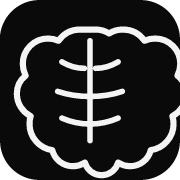
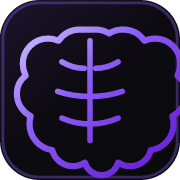
Ícones do cérebro em roxo com fundo preto
Atualiza favicon/PWA e a tela de login para traço roxo sobre base
preta, com acentos violetas nos campos e no botão.

Changed region(s): [[0.0, 0.0, 1.0, 1.0]]

diff --git a/controle-financeiro.html b/controle-financeiro.html
@@ -1,12 +1,12 @@
 <!DOCTYPE html>
-<!-- deploy-v20260804-cerebro-favicon -->
+<!-- deploy-v20260804-cerebro-purple-icons -->
 <html lang="pt-BR">
 <head>
 <meta charset="UTF-8">
 <meta name="viewport" content="width=device-width, initial-scale=1.0, viewport-fit=cover">
 <title>O Cerébro</title>
 <meta name="description" content="Agenda pessoal, hábitos, projetos e controle financeiro.">
-<meta name="theme-color" content="#0a0a0b">
+<meta name="theme-color" content="#0d0b12">
 <meta name="color-scheme" content="dark light">
 <meta name="mobile-web-app-capable" content="yes">
 <meta name="apple-mobile-web-app-capable" content="yes">
@@ -3745,22 +3745,22 @@
     .type-toggle{ max-width:100% !important; }
   }
 
-  /* ===== Tela de bloqueio — O CERÉBRO (tons de preto) ===== */
+  /* ===== Tela de bloqueio — O CERÉBRO (preto + roxo) ===== */
   .lock-screen{
     position:fixed; inset:0; z-index:1000; display:flex; align-items:center; justify-content:center;
     background:
-      radial-gradient(800px 420px at 15% 0%, rgba(255,255,255,0.06) 0%, transparent 55%),
-      radial-gradient(600px 360px at 100% 20%, rgba(255,255,255,0.04) 0%, transparent 50%),
-      radial-gradient(500px 280px at 50% 100%, rgba(255,255,255,0.03) 0%, transparent 55%),
-      linear-gradient(165deg, #0a0a0b 0%, #111113 45%, #0c0c0e 100%);
+      radial-gradient(820px 440px at 12% -8%, rgba(139,92,246,0.22) 0%, transparent 55%),
+      radial-gradient(640px 380px at 100% 12%, rgba(109,40,217,0.16) 0%, transparent 52%),
+      radial-gradient(520px 300px at 50% 100%, rgba(76,29,149,0.14) 0%, transparent 55%),
+      linear-gradient(165deg, #0a0a0b 0%, #100e16 45%, #0c0a10 100%);
     padding:20px;
   }
   .lock-card{
     width:100%; max-width:360px;
-    background:rgba(18,18,20,0.92);
-    border:1px solid rgba(255,255,255,0.10);
+    background:rgba(14,12,20,0.94);
+    border:1px solid rgba(139,92,246,0.22);
     backdrop-filter: blur(18px); -webkit-backdrop-filter: blur(18px);
-    box-shadow: 0 24px 60px rgba(0,0,0,0.55), inset 0 1px 0 rgba(255,255,255,0.06);
+    box-shadow: 0 24px 60px rgba(0,0,0,0.55), 0 0 0 1px rgba(0,0,0,0.4), inset 0 1px 0 rgba(196,181,253,0.08);
     border-radius:28px;
     padding:36px 30px;
     text-align:center;
@@ -3775,10 +3775,10 @@
   }
   .lock-mark{
     width:72px; height:72px; border-radius:22px; margin:0 auto 18px;
-    background:linear-gradient(160deg, #2a2a2e 0%, #141416 55%, #0a0a0b 100%);
-    border:1px solid rgba(255,255,255,0.12);
-    display:flex; align-items:center; justify-content:center; color:#f4f4f5;
-    box-shadow: 0 14px 32px rgba(0,0,0,0.45), inset 0 1px 0 rgba(255,255,255,0.08);
+    background:linear-gradient(160deg, #2a1848 0%, #141018 50%, #0a0a0b 100%);
+    border:1px solid rgba(139,92,246,0.4);
+    display:flex; align-items:center; justify-content:center; color:#C4B5FD;
+    box-shadow: 0 14px 32px rgba(76,29,149,0.35), inset 0 1px 0 rgba(196,181,253,0.12);
   }
   .lock-mark svg{
     width:40px; height:40px; display:block;
@@ -3787,27 +3787,27 @@
     font-family:var(--font); font-weight:800; font-size:20px; margin:0 0 6px;
     letter-spacing:.04em; text-transform:uppercase; color:#f4f4f5;
   }
-  .lock-sub{ font-size:13px; font-weight:500; color:rgba(244,244,245,0.55); margin:0 0 24px; }
+  .lock-sub{ font-size:13px; font-weight:500; color:rgba(196,181,253,0.55); margin:0 0 24px; }
   .lock-input{
-    width:100%; padding:14px 15px; border:1.5px solid rgba(255,255,255,0.12); border-radius:14px;
+    width:100%; padding:14px 15px; border:1.5px solid rgba(139,92,246,0.22); border-radius:14px;
     font-family:var(--font); font-weight:600; font-size:15px; letter-spacing:normal;
-    text-align:left; background:rgba(0,0,0,0.35); color:#f4f4f5;
+    text-align:left; background:rgba(0,0,0,0.4); color:#f4f4f5;
     transition: border-color .18s var(--ease), box-shadow .18s var(--ease), background .18s var(--ease);
   }
-  .lock-input::placeholder{ color:rgba(244,244,245,0.35); }
+  .lock-input::placeholder{ color:rgba(196,181,253,0.35); }
   .lock-input:focus{
-    outline:none; border-color:rgba(255,255,255,0.35); background:rgba(0,0,0,0.5);
-    box-shadow: 0 0 0 3px rgba(255,255,255,0.08);
+    outline:none; border-color:rgba(167,139,250,0.55); background:rgba(0,0,0,0.55);
+    box-shadow: 0 0 0 3px rgba(139,92,246,0.18);
   }
   .lock-screen .btn-add{
-    background:linear-gradient(145deg, #2c2c30 0%, #141416 55%, #0a0a0b 100%) !important;
-    border:1px solid rgba(255,255,255,0.14) !important;
+    background:linear-gradient(145deg, #6D28D9 0%, #4C1D95 55%, #1a0f2e 100%) !important;
+    border:1px solid rgba(167,139,250,0.35) !important;
     color:#f4f4f5 !important;
-    box-shadow: 0 10px 24px rgba(0,0,0,0.4) !important;
+    box-shadow: 0 10px 24px rgba(76,29,149,0.4) !important;
   }
   .lock-screen .btn-add:hover{
-    filter:brightness(1.12) !important;
-    border-color:rgba(255,255,255,0.22) !important;
+    filter:brightness(1.1) !important;
+    border-color:rgba(196,181,253,0.5) !important;
   }
   .lock-error{ display:none; color:#f87171; font-size:12px; font-weight:700; margin:14px 0 0; }
 

diff --git a/docs/index.html b/docs/index.html
@@ -1,12 +1,12 @@
 <!DOCTYPE html>
-<!-- deploy-v20260804-cerebro-favicon -->
+<!-- deploy-v20260804-cerebro-purple-icons -->
 <html lang="pt-BR">
 <head>
 <meta charset="UTF-8">
 <meta name="viewport" content="width=device-width, initial-scale=1.0, viewport-fit=cover">
 <title>O Cerébro</title>
 <meta name="description" content="Agenda pessoal, hábitos, projetos e controle financeiro.">
-<meta name="theme-color" content="#0a0a0b">
+<meta name="theme-color" content="#0d0b12">
 <meta name="color-scheme" content="dark light">
 <meta name="mobile-web-app-capable" content="yes">
 <meta name="apple-mobile-web-app-capable" content="yes">
@@ -3745,22 +3745,22 @@
     .type-toggle{ max-width:100% !important; }
   }
 
-  /* ===== Tela de bloqueio — O CERÉBRO (tons de preto) ===== */
+  /* ===== Tela de bloqueio — O CERÉBRO (preto + roxo) ===== */
   .lock-screen{
     position:fixed; inset:0; z-index:1000; display:flex; align-items:center; justify-content:center;
     background:
-      radial-gradient(800px 420px at 15% 0%, rgba(255,255,255,0.06) 0%, transparent 55%),
-      radial-gradient(600px 360px at 100% 20%, rgba(255,255,255,0.04) 0%, transparent 50%),
-      radial-gradient(500px 280px at 50% 100%, rgba(255,255,255,0.03) 0%, transparent 55%),
-      linear-gradient(165deg, #0a0a0b 0%, #111113 45%, #0c0c0e 100%);
+      radial-gradient(820px 440px at 12% -8%, rgba(139,92,246,0.22) 0%, transparent 55%),
+      radial-gradient(640px 380px at 100% 12%, rgba(109,40,217,0.16) 0%, transparent 52%),
+      radial-gradient(520px 300px at 50% 100%, rgba(76,29,149,0.14) 0%, transparent 55%),
+      linear-gradient(165deg, #0a0a0b 0%, #100e16 45%, #0c0a10 100%);
     padding:20px;
   }
   .lock-card{
     width:100%; max-width:360px;
-    background:rgba(18,18,20,0.92);
-    border:1px solid rgba(255,255,255,0.10);
+    background:rgba(14,12,20,0.94);
+    border:1px solid rgba(139,92,246,0.22);
     backdrop-filter: blur(18px); -webkit-backdrop-filter: blur(18px);
-    box-shadow: 0 24px 60px rgba(0,0,0,0.55), inset 0 1px 0 rgba(255,255,255,0.06);
+    box-shadow: 0 24px 60px rgba(0,0,0,0.55), 0 0 0 1px rgba(0,0,0,0.4), inset 0 1px 0 rgba(196,181,253,0.08);
     border-radius:28px;
     padding:36px 30px;
     text-align:center;
@@ -3775,10 +3775,10 @@
   }
   .lock-mark{
     width:72px; height:72px; border-radius:22px; margin:0 auto 18px;
-    background:linear-gradient(160deg, #2a2a2e 0%, #141416 55%, #0a0a0b 100%);
-    border:1px solid rgba(255,255,255,0.12);
-    display:flex; align-items:center; justify-content:center; color:#f4f4f5;
-    box-shadow: 0 14px 32px rgba(0,0,0,0.45), inset 0 1px 0 rgba(255,255,255,0.08);
+    background:linear-gradient(160deg, #2a1848 0%, #141018 50%, #0a0a0b 100%);
+    border:1px solid rgba(139,92,246,0.4);
+    display:flex; align-items:center; justify-content:center; color:#C4B5FD;
+    box-shadow: 0 14px 32px rgba(76,29,149,0.35), inset 0 1px 0 rgba(196,181,253,0.12);
   }
   .lock-mark svg{
     width:40px; height:40px; display:block;
@@ -3787,27 +3787,27 @@
     font-family:var(--font); font-weight:800; font-size:20px; margin:0 0 6px;
     letter-spacing:.04em; text-transform:uppercase; color:#f4f4f5;
   }
-  .lock-sub{ font-size:13px; font-weight:500; color:rgba(244,244,245,0.55); margin:0 0 24px; }
+  .lock-sub{ font-size:13px; font-weight:500; color:rgba(196,181,253,0.55); margin:0 0 24px; }
   .lock-input{
-    width:100%; padding:14px 15px; border:1.5px solid rgba(255,255,255,0.12); border-radius:14px;
+    width:100%; padding:14px 15px; border:1.5px solid rgba(139,92,246,0.22); border-radius:14px;
     font-family:var(--font); font-weight:600; font-size:15px; letter-spacing:normal;
-    text-align:left; background:rgba(0,0,0,0.35); color:#f4f4f5;
+    text-align:left; background:rgba(0,0,0,0.4); color:#f4f4f5;
     transition: border-color .18s var(--ease), box-shadow .18s var(--ease), background .18s var(--ease);
   }
-  .lock-input::placeholder{ color:rgba(244,244,245,0.35); }
+  .lock-input::placeholder{ color:rgba(196,181,253,0.35); }
   .lock-input:focus{
-    outline:none; border-color:rgba(255,255,255,0.35); background:rgba(0,0,0,0.5);
-    box-shadow: 0 0 0 3px rgba(255,255,255,0.08);
+    outline:none; border-color:rgba(167,139,250,0.55); background:rgba(0,0,0,0.55);
+    box-shadow: 0 0 0 3px rgba(139,92,246,0.18);
   }
   .lock-screen .btn-add{
-    background:linear-gradient(145deg, #2c2c30 0%, #141416 55%, #0a0a0b 100%) !important;
-    border:1px solid rgba(255,255,255,0.14) !important;
+    background:linear-gradient(145deg, #6D28D9 0%, #4C1D95 55%, #1a0f2e 100%) !important;
+    border:1px solid rgba(167,139,250,0.35) !important;
     color:#f4f4f5 !important;
-    box-shadow: 0 10px 24px rgba(0,0,0,0.4) !important;
+    box-shadow: 0 10px 24px rgba(76,29,149,0.4) !important;
   }
   .lock-screen .btn-add:hover{
-    filter:brightness(1.12) !important;
-    border-color:rgba(255,255,255,0.22) !important;
+    filter:brightness(1.1) !important;
+    border-color:rgba(196,181,253,0.5) !important;
   }
   .lock-error{ display:none; color:#f87171; font-size:12px; font-weight:700; margin:14px 0 0; }
 

diff --git a/index.html b/index.html
@@ -1,12 +1,12 @@
 <!DOCTYPE html>
-<!-- deploy-v20260804-cerebro-favicon -->
+<!-- deploy-v20260804-cerebro-purple-icons -->
 <html lang="pt-BR">
 <head>
 <meta charset="UTF-8">
 <meta name="viewport" content="width=device-width, initial-scale=1.0, viewport-fit=cover">
 <title>O Cerébro</title>
 <meta name="description" content="Agenda pessoal, hábitos, projetos e controle financeiro.">
-<meta name="theme-color" content="#0a0a0b">
+<meta name="theme-color" content="#0d0b12">
 <meta name="color-scheme" content="dark light">
 <meta name="mobile-web-app-capable" content="yes">
 <meta name="apple-mobile-web-app-capable" content="yes">
@@ -3745,22 +3745,22 @@
     .type-toggle{ max-width:100% !important; }
   }
 
-  /* ===== Tela de bloqueio — O CERÉBRO (tons de preto) ===== */
+  /* ===== Tela de bloqueio — O CERÉBRO (preto + roxo) ===== */
   .lock-screen{
     position:fixed; inset:0; z-index:1000; display:flex; align-items:center; justify-content:center;
     background:
-      radial-gradient(800px 420px at 15% 0%, rgba(255,255,255,0.06) 0%, transparent 55%),
-      radial-gradient(600px 360px at 100% 20%, rgba(255,255,255,0.04) 0%, transparent 50%),
-      radial-gradient(500px 280px at 50% 100%, rgba(255,255,255,0.03) 0%, transparent 55%),
-      linear-gradient(165deg, #0a0a0b 0%, #111113 45%, #0c0c0e 100%);
+      radial-gradient(820px 440px at 12% -8%, rgba(139,92,246,0.22) 0%, transparent 55%),
+      radial-gradient(640px 380px at 100% 12%, rgba(109,40,217,0.16) 0%, transparent 52%),
+      radial-gradient(520px 300px at 50% 100%, rgba(76,29,149,0.14) 0%, transparent 55%),
+      linear-gradient(165deg, #0a0a0b 0%, #100e16 45%, #0c0a10 100%);
     padding:20px;
   }
   .lock-card{
     width:100%; max-width:360px;
-    background:rgba(18,18,20,0.92);
-    border:1px solid rgba(255,255,255,0.10);
+    background:rgba(14,12,20,0.94);
+    border:1px solid rgba(139,92,246,0.22);
     backdrop-filter: blur(18px); -webkit-backdrop-filter: blur(18px);
-    box-shadow: 0 24px 60px rgba(0,0,0,0.55), inset 0 1px 0 rgba(255,255,255,0.06);
+    box-shadow: 0 24px 60px rgba(0,0,0,0.55), 0 0 0 1px rgba(0,0,0,0.4), inset 0 1px 0 rgba(196,181,253,0.08);
     border-radius:28px;
     padding:36px 30px;
     text-align:center;
@@ -3775,10 +3775,10 @@
   }
   .lock-mark{
     width:72px; height:72px; border-radius:22px; margin:0 auto 18px;
-    background:linear-gradient(160deg, #2a2a2e 0%, #141416 55%, #0a0a0b 100%);
-    border:1px solid rgba(255,255,255,0.12);
-    display:flex; align-items:center; justify-content:center; color:#f4f4f5;
-    box-shadow: 0 14px 32px rgba(0,0,0,0.45), inset 0 1px 0 rgba(255,255,255,0.08);
+    background:linear-gradient(160deg, #2a1848 0%, #141018 50%, #0a0a0b 100%);
+    border:1px solid rgba(139,92,246,0.4);
+    display:flex; align-items:center; justify-content:center; color:#C4B5FD;
+    box-shadow: 0 14px 32px rgba(76,29,149,0.35), inset 0 1px 0 rgba(196,181,253,0.12);
   }
   .lock-mark svg{
     width:40px; height:40px; display:block;
@@ -3787,27 +3787,27 @@
     font-family:var(--font); font-weight:800; font-size:20px; margin:0 0 6px;
     letter-spacing:.04em; text-transform:uppercase; color:#f4f4f5;
   }
-  .lock-sub{ font-size:13px; font-weight:500; color:rgba(244,244,245,0.55); margin:0 0 24px; }
+  .lock-sub{ font-size:13px; font-weight:500; color:rgba(196,181,253,0.55); margin:0 0 24px; }
   .lock-input{
-    width:100%; padding:14px 15px; border:1.5px solid rgba(255,255,255,0.12); border-radius:14px;
+    width:100%; padding:14px 15px; border:1.5px solid rgba(139,92,246,0.22); border-radius:14px;
     font-family:var(--font); font-weight:600; font-size:15px; letter-spacing:normal;
-    text-align:left; background:rgba(0,0,0,0.35); color:#f4f4f5;
+    text-align:left; background:rgba(0,0,0,0.4); color:#f4f4f5;
     transition: border-color .18s var(--ease), box-shadow .18s var(--ease), background .18s var(--ease);
   }
-  .lock-input::placeholder{ color:rgba(244,244,245,0.35); }
+  .lock-input::placeholder{ color:rgba(196,181,253,0.35); }
   .lock-input:focus{
-    outline:none; border-color:rgba(255,255,255,0.35); background:rgba(0,0,0,0.5);
-    box-shadow: 0 0 0 3px rgba(255,255,255,0.08);
+    outline:none; border-color:rgba(167,139,250,0.55); background:rgba(0,0,0,0.55);
+    box-shadow: 0 0 0 3px rgba(139,92,246,0.18);
   }
   .lock-screen .btn-add{
-    background:linear-gradient(145deg, #2c2c30 0%, #141416 55%, #0a0a0b 100%) !important;
-    border:1px solid rgba(255,255,255,0.14) !important;
+    background:linear-gradient(145deg, #6D28D9 0%, #4C1D95 55%, #1a0f2e 100%) !important;
+    border:1px solid rgba(167,139,250,0.35) !important;
     color:#f4f4f5 !important;
-    box-shadow: 0 10px 24px rgba(0,0,0,0.4) !important;
+    box-shadow: 0 10px 24px rgba(76,29,149,0.4) !important;
   }
   .lock-screen .btn-add:hover{
-    filter:brightness(1.12) !important;
-    border-color:rgba(255,255,255,0.22) !important;
+    filter:brightness(1.1) !important;
+    border-color:rgba(196,181,253,0.5) !important;
   }
   .lock-error{ display:none; color:#f87171; font-size:12px; font-weight:700; margin:14px 0 0; }
 

diff --git a/docs/sw.js b/docs/sw.js
@@ -1,5 +1,5 @@
 /* Service Worker — Agenda · Finanças PWA */
-const CACHE_VERSION = 'financas-pwa-v20260804-cerebro-favicon';
+const CACHE_VERSION = 'financas-pwa-v20260804-cerebro-purple-icons';;
 const PRECACHE = [
   '/',
   '/index.html',

diff --git a/sw.js b/sw.js
@@ -1,5 +1,5 @@
 /* Service Worker — Agenda · Finanças PWA */
-const CACHE_VERSION = 'financas-pwa-v20260804-cerebro-favicon';
+const CACHE_VERSION = 'financas-pwa-v20260804-cerebro-purple-icons';;
 const PRECACHE = [
   '/',
   '/index.html',
